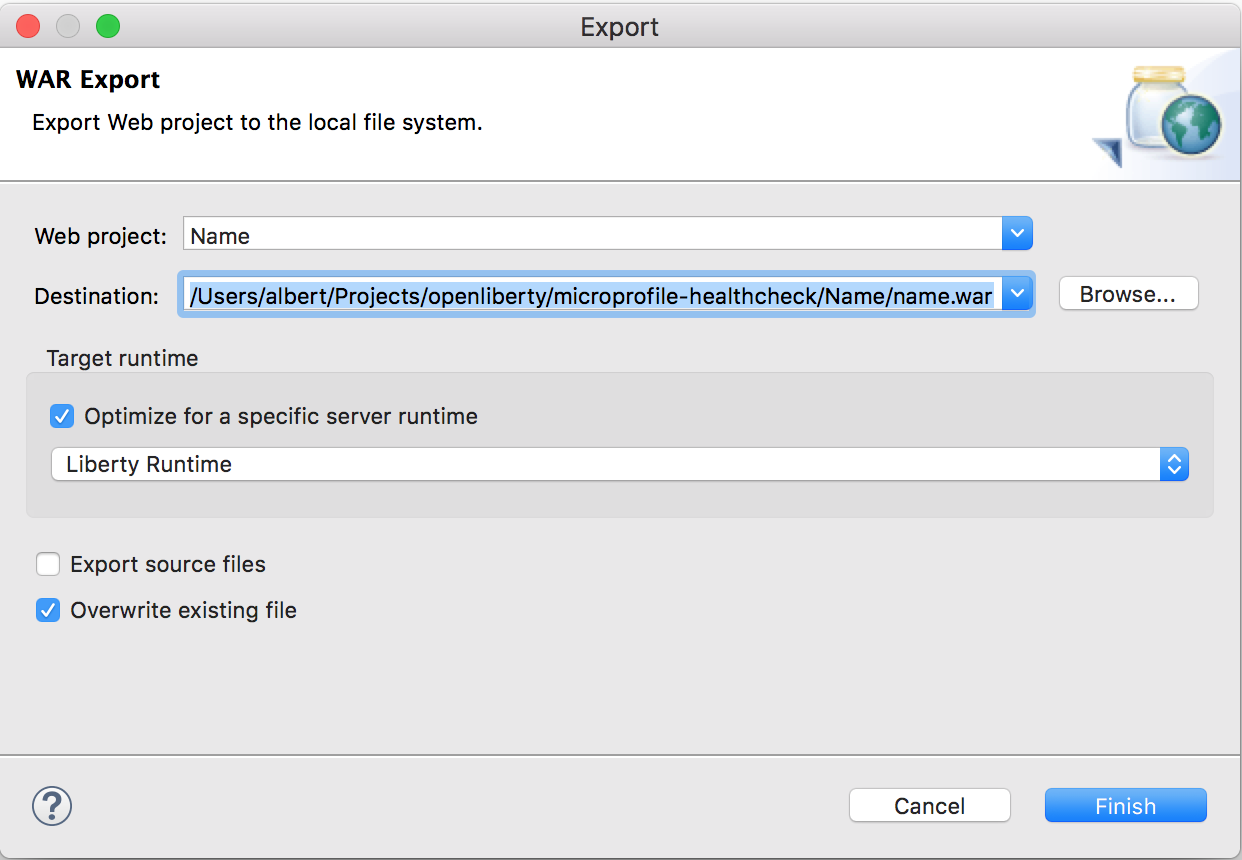
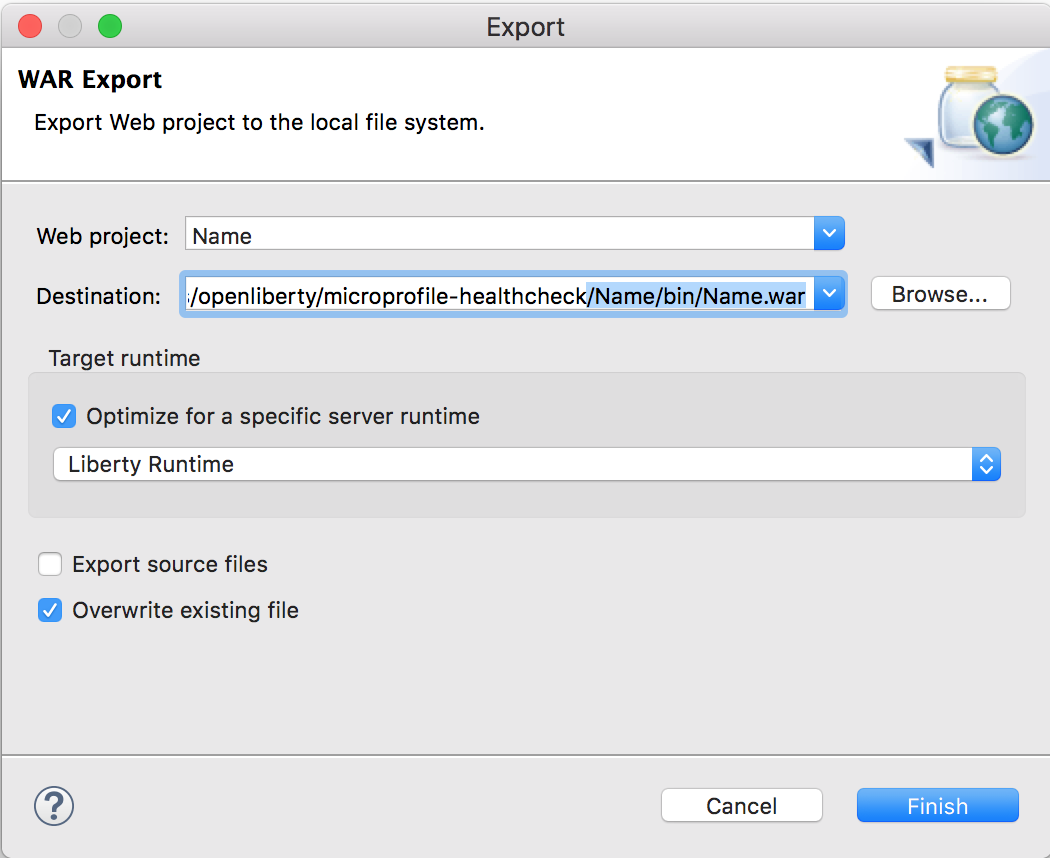
added Liberty parts into README.md

diff --git a/README.md b/README.md
@@ -34,11 +34,38 @@ Kubernetes provides liveness and readiness probes that are used to check the hea
     - Install CLI, create a private regristry, setup up created cluster envrironment.
     - You can use tutorial to do these steps: https://cloud.ibm.com/docs/containers?topic=containers-cs_cluster_tutorial#cs_cluster_tutorial
 
-## Getting started
 
-- Open Eclipse IDE:
+
+## Getting started 
+
+The two microservices you will work with are called `Name` and `Ping`. The `Name` microservice displays a brief greeting and its application name. The `Ping` microservice pings the `Name` microservice. The `Ping`  demonstrates how communication can be established between microservices. 
+
+The `Ping` microservice should only be healthy when `Name` is available. To add this check to the `/health` endpoint, you will create a class implementing the `HealthCheck` interface.
+
+**TASK 1. Download projects**
+
+Go to the directory where you want to clone repository from github.
+
+````
+$ cd /Users/albert/Projects/openliberty
+````
+
+You can use git to clone repository or download it directly from github: `https://github.com/albert-haliulov/microprofile-healthcheck`
+![Git repo](./images/git-repo.png)
+
+
+````
+$ git clone https://github.com/albert-haliulov/microprofile-healthcheck.git
+````
+
+**TASK 2. Open Eclipse IDE**
 
 ![Eclipse desktop icon](./images/eclipse-icon.png)
+
+Change Eclipse workspace to directory where you unpacked `microprofile-healtcheck`
+
+![Eclipse change workspace](./images/eclipse-workspace.png)
+
 
 Find and Install IBM Liberty Developer Tools for building and deploying JEE apps to OpenLiberty:
 
@@ -57,42 +84,175 @@ Find and Install IBM Liberty Developer Tools for building and deploying JEE apps
 
 - RESTART ECLIPSE
 
-## Configure Liberty runtime
+**TASK3. Create Liberty runtime**
 
+In order to run our applications we need to setup server runtime environment. For this we need to install OpenLiberty and set it as a runtime environment in Eclipse workspace.
 
-## Download and Import projects into your workspace
+Open menu Eclipse->Preferences and type 'Runtime Environments' in search field:
 
-You can use git to clone repository or download it directly from github: `https://github.com/albert-haliulov/microprofile-healthcheck`
-![Git repo](./images/git-repo.png)
+![New server runtime st1](./images/target-runtime-liberty-step1.png)
 
-````
-$ git clone https://github.com/albert-haliulov/microprofile-healthcheck.git
-Cloning into 'microprofile-healthcheck'...
-remote: Enumerating objects: 76, done.
-remote: Counting objects: 100% (76/76), done.
-remote: Compressing objects: 100% (49/49), done.
-remote: Total 76 (delta 9), reused 76 (delta 9), pack-reused 0
-Unpacking objects: 100% (76/76), done.
-````
-Change Eclipse workspace to directory where you unpacked `microprofile-healtcheck` repo: File->Switch Workspace->Other
+Then click `Add..` button to create new runtime, select `Liberty` from the list and click `Next` button:
 
-![Eclipse change workspace](./images/eclipse-workspace.png)
+![New server runtime st2](./images/target-runtime-liberty-step2.png)
 
-And import eclipse artifactes from project.zip file:
+Check radio button `Install from an archive or a repoitory`, others keep unchanged and click `Next` button:
+
+![New server runtime st3](./images/target-runtime-liberty-step3.png)
+
+Enter the `destination path` where you want to install OpenLiberty, set the path to the previously donwloaded `openliberty-XXXXXX.zip` package and click `Finish` button:
+
+![New server runtime st4](./images/target-runtime-liberty-step4.png)
+
+As a result it has to show that openliberty successfully installed. Click `OK`:
+
+![New server runtime st5](./images/target-runtime-liberty-step5.png)
+
+You will see created `Liberty Runtime`, click `Apply and Close`.
+![New server runtime st6](./images/target-runtime-liberty-step6.png)
+
+**TASK4. Import projects into Eclipse workspace**
+
+Use menu `File->Import`:
+
 ![Import arctifacts STEP1](./images/import-project-st1.png)
+
+Select `General->Existing Projects into Workspace`:
 
 ![Import arctifacts STEP1](./images/import-project-st2.png)
 
+Select directory with the `Name` project and click `Finish`:
+
 ![Import arctifacts STEP1](./images/import-project-st3.png)
 
-## Adding a health check to the ping microservice
+**Repeat the same steps for `Ping` project.**
+
+Finally we need to setup Facets in order to Eclipse IDE properly recognized our projects as a Java Web projects. You should set the following options for both projects:
+
+![Project build options st1](./images/project-build-options-step1.png)
+
+![Project build options st1](./images/project-build-options-step2.png)
+
+**TASK5. Deploy microservices.**
+
+Create server for `Name` microservice `Click this link to create a new server`:
+
+![Deploy app step1](./images/deploy-app-st1.png)
+
+Set the name for the server `Liberty Server for Name`:
+
+![Deploy app step2](./images/deploy-app-st2.png)
+
+Set serer name to `name`, click `Finish`
+![Deploy app step3](./images/deploy-app-st3.png)
+
+Repeat the same steps to create server for `Ping` microservice.
+
+![Deploy app step4](./images/deploy-app-st4.png)
+
+Click `New` to create new server:
+
+![Deploy app step5](./images/deploy-app-st5.png)
+
+Set server name `ping` and `Finish`:
+
+![Deploy app step6](./images/deploy-app-st6.png)
+
+And again click `Finish`:
+![Deploy app step7](./images/deploy-app-st7.png)
+
+Now you are ready to deploy microservices into these servers:
+![Deploy app step8](./images/deploy-app-st8.png)
+
+
+Right click on `Liberty Server for Name` and select menu item `Add and Remove...`:
+
+![Deploy app step9](./images/deploy-app-st9.png)
+
+Select on the left side `Name` microservice and click `Add >` button. After `Finish` it will deploy `Name` microservice:
+
+![Deploy app step10](./images/deploy-app-st10.png)
+
+**Repeat the same steps for `Liberty Server for Ping` and `Ping` microservice.**
+
+**TASK6. Configure Liberty servers.**
+
+Explore the already prepared Liberty configuration for each of microservices -`server.xml`:
+````
+<server description="Liberty Server for Name microservice">
+    
+    <featureManager>
+    	<feature>jaxrs-2.1</feature>
+        <feature>cdi-2.0</feature>
+    	<feature>mpHealth-1.0</feature>
+        <feature>localConnector-1.0</feature>
+    </featureManager>
+
+    <httpEndpoint host="*" httpPort="9080" httpsPort="9443" id="defaultHttpEndpoint"/>
+
+    <applicationManager autoExpand="true"/>
+
+    <applicationMonitor updateTrigger="mbean"/>
+
+    <webApplication contextRoot="api" id="Name" location="Name.war" name="Name"/>
+</server>
+````
+````
+<server description="Liberty Server for Ping microservice">
+    
+    <featureManager>
+    	<feature>jaxrs-2.1</feature>
+        <feature>cdi-2.0</feature>
+    	<feature>mpRestClient-1.0</feature>
+    	<feature>mpConfig-1.2</feature>
+    	<feature>mpHealth-1.0</feature>
+        <feature>localConnector-1.0</feature>
+    </featureManager>
+
+    <httpEndpoint host="*" httpPort="9081" httpsPort="9444" id="defaultHttpEndpoint"/>
+
+    <applicationManager autoExpand="true"/>
+
+    <applicationMonitor updateTrigger="mbean"/>
+
+    <webApplication contextRoot="api" id="Ping" location="Ping.war" name="Ping"/>
+</server>
+````
+
+We used `api` as a web `Context Root` for both microservices. `HTTP Listener` port `9080` and `HTTPS Listener` port `9443` for `Liberty Server for Name`. `9081` & `9444` for `Liberty Server for Ping`. To access these servers from a remote client added a host attribute `host="*"`. 
+
+Update `server.xml` of both servers by the supplied files from the root of each application folder. 
+
+Open Liberty configuration and update it: 
+
+![Deploy app step12](./images/deploy-app-st11.png)
+
+**Don't forget to change `server.xml` in second server.**
+
+**TASK7. Invoke microservices.**
+
+Start application servers `Liberty Server for Name` and `Liberty Server for Ping`:
+
+![Start application server](./images/test-app-st1.png)
+
+Invoke `Name` microservice:
+````
+$ curl -X GET http://localhost:9080/api/name
+Hello! I'm application NameService
+````
+
+The `Ping` microservice uses `<hostname>` parameter from the invocation URL `http://localhost:9081/api/ping/<hostname>` to call `Name` microservice by `http://<hostname>:9080/api/name`. If `Name` is available then `Ping` replies `pong`:
+````
+$ curl -X GET http://localhost:9081/api/ping/localhost
+pong
+````
+
+## Adding a health check to the `Ping` microservice
  
-The two microservices you will work with are called `name` and `ping`. The `name` microservice displays a brief greeting and the name of the container that it runs in. The `ping` microservice pings the Kubernetes Service that encapsulates the pod running the `name` microservice. The `ping` microservice demonstrates how communication can be established between pods inside a cluster.
+The `Ping` microservice should only be healthy when `Name` is available. To add this check to the `/health` endpoint, let's create a class implementing the `HealthCheck` interface.
 
-The `ping` microservice should only be healthy when `name` is available. To add this check to the `/health` endpoint, you will create a class implementing the `HealthCheck` interface.
-
->Create PingHealth class.
-io/openliberty/guides/ping/PingHealth.java
+>Create class PingHealth.
+`io/openliberty/guides/ping/PingHealth.java`
 ````
 package io.openliberty.guides.ping;
 
@@ -146,25 +306,11 @@ public class PingHealth implements HealthCheck {
 }
 ````
 
-## Build applications Name and Ping
+## Play with microservices
 
-By default all projects build automatically:
+This health check verifies that the `Name` microservice is available at `http://localhost:9081/api/name`. If it’s available, then it returns an `UP` status. Similarly, if it’s unavailable then it returns a `DOWN` status. When the status is `DOWN` the microservice is considered to be unhealthy.
 
-![Build Automatically](./images/app-build-automatically.png)
-
-We need to export web applications in order to deploy and to use in further steps. Do it for both applications.
-
-![Export application as a WAR file STEP1](./images/app-export-warfile-st1.png)
-
-Save file inside the appropriate application folder. Use `name.war` for Name app, `ping.war` for Ping application. Check box `Overwrite existing file` if the file with same name exists.
-
-![Export application as a WAR file STEP2](./images/app-export-warfile-st2.png)
-
-## Play with app
-
-This health check verifies that the `name` microservice is available at `http://localhost:9081/api`. If it’s available, then it returns an `UP` status. Similarly, if it’s unavailable then it returns a `DOWN` status. When the status is `DOWN` the microservice is considered to be unhealthy.
-
-The health check for the `name` microservice has already been implemented. It has been setup to become unhealthy for 60 seconds when a specific endpoint is called. This endpoint has been provided for you to observe the results of an unhealthy pod and how Kubernetes reacts.
+The health check for the `Name` microservice has already been implemented. It has been setup to become unhealthy for 60 seconds when a specific endpoint is called - `http://localhost:9080/api/name/unhealthy`. This endpoint has been provided for you to observe the results of an unhealthy pod.
 
 
 ````
@@ -206,15 +352,24 @@ ERROR: Service is currently in maintenance.
 $ curl -X GET http://localhost:9081/health
 {"checks":[{"data":{},"name":"localhost","state":"DOWN"}],"outcome":"DOWN"}
 ````
+## Export microservices as WAR files
+
+We need to export microservices in order to containerize them:
+
+![Export application as a WAR file STEP1](./images/app-export-warfile-st1.png)
+
+Save WAR file to the `bin` folder of each project. If `bin` doesn't exist then create it. Use `Name.war` for `Name` microservice, `Ping.war` for `Ping`. Check box `Overwrite existing file` if file with the same name exists.
+
+![Export application as a WAR file STEP2](./images/app-export-warfile-st2.png)
 
 ## Build docker images
 
-We supplied Dockerfiles for creating `name` and `ping` images. They are located in the application folders. Explore one of them:
+We supplied Dockerfiles for creating `Name` and `Ping` images. They are located in the application folders. Explore one of them:
 ````
 FROM open-liberty
 
 COPY --chown=1001:0 server.xml /config
-COPY --chown=1001:0 *.war /config/apps/name.war
+COPY --chown=1001:0 *.war /config/apps/Name.war
 ````
 
 Build `name:1.0` image:
@@ -261,13 +416,13 @@ ping                                     1.0                 fea53a6caf11       
 
 Now we are ready for the next step - run containers.
 
-## Run & Play with docker containers
+## Run & Play with Docker containers
 
-Run docker containers from prepared images with `name` and `ping` services. In order to start containes we will use `docker-compose`.
+Run docker containers from prepared images with `Name` and `Ping` services. In order to start containes we will use `docker-compose`.
 
 Docker Compose is a tool for defining and running multi-container Docker applications. It uses YAML files to configure the application's services and performs the creation and start-up process of all the containers with a single command.
 
-Look at `docker-compose.yaml`:
+Look at supplied `docker-compose.yaml`:
 
 ````
 version: '3'
@@ -288,10 +443,10 @@ services:
       - name-service
 ````
 
-We used version 3 notation: `https://docs.docker.com/compose/compose-file/`. As you can see, there are two services defined `name-service` and `ping-service` which will be created from our docker images `name:1.0` and `ping:1.0`.
-Ports mapped in the same manner as you usually use with `docker run` command. 
+We used version 3 notation: `https://docs.docker.com/compose/compose-file/`. As you can see, there are two services defined `name-service` and `ping-service` which will create from images `name:1.0` and `ping:1.0`.
+Ports mapped in the same way as you usually use with `docker run` command. 
 
-If you open `io.openliberty.guides.ping.PingHealth` class which we created in previous steps, you can see the ConfigProperty `NAME_HOSTNAME`. This environment variable initialized by `name-service` which is the name of service.
+Open `io.openliberty.guides.ping.PingHealth` class which we created in previous steps. You can see the ConfigProperty `NAME_HOSTNAME`. This environment variable initialized by `name-service` in `docker-compose.yaml`:
 
 ````
 public class PingHealth implements HealthCheck {
@@ -300,7 +455,7 @@ public class PingHealth implements HealthCheck {
     private String hostname;
 ````
 
-And at the bottom of `docker-compose.yaml` we used `depends_on`. It is express dependency between services. `docker-compose up` command starts services in dependency order. In our case, `name-service` are started before `ping-service`. 
+At the bottom of `docker-compose.yaml` we used `depends_on`. It is express dependency between services. `docker-compose up` command starts services in dependency order. In our case, `name-service` are started before `ping-service`. 
 
 Let's start it:
 
@@ -311,7 +466,7 @@ Creating microprofile-healthcheck_name-service_1_7e0ffbcdc769 ... done
 Creating microprofile-healthcheck_ping-service_1_12e3084076cd ... done
 ````
 
-Check that the contaners have been started:
+Check that contaners have been started:
 
 ````
 $ docker ps
@@ -321,7 +476,7 @@ a814a31c2cbc        name:1.0            "/opt/ol/helpers/run…"   29 seconds ag
 
 ````
 
-Now you can play with our services:
+Now you can play with microservices:
 
 Notice that our `name-service` responing as a container, not an application as was before. Check the application class `io.openliberty.guides.name.NameResource` to understand this behaviour. 
 ````
@@ -335,7 +490,7 @@ $ curl -X GET http://localhost:9081/api/ping/name-service
 pong
 ````
 
-And check the healthcheck stuff. Does it work in containers before deploy to kubernetes?
+And check the healthcheck stuff:
 
 ````
 $ curl -X GET http://localhost:9080/health
@@ -365,9 +520,9 @@ curl -X GET http://localhost:9081/health
 
 We have done it. 
 
-Let's deploy it to Kubernetes and check readinessProbe how it can handle healthcheck of our services.
+Let's deploy it to Kubernetes and check readinessProbe how it can handle healthcheck of our microservices.
 
-## Creating cluster and preparing your environment for deployment
+## Creating cluster and preparing environment for deployment
 
 If you have not created K8s cluster yet - now it's time to do that.  
 
@@ -426,7 +581,7 @@ pong
 
 Readiness probes are responsible for determining that your application is ready to accept requests. If it’s not ready, traffic won’t be routed to the container.
 
-Edit `kubernetes.yaml` to add readinessProbes as it shown below. Do these changes for both services. You should get content as in already prepared file `kubernetes-readiness.yaml`.
+Edit `kubernetes.yaml` to add readinessProbes as it shown below. Do these changes for both services. You should get content like from supplied file `kubernetes-readiness.yaml`.
 ````
       containers:
       - name: name-container
